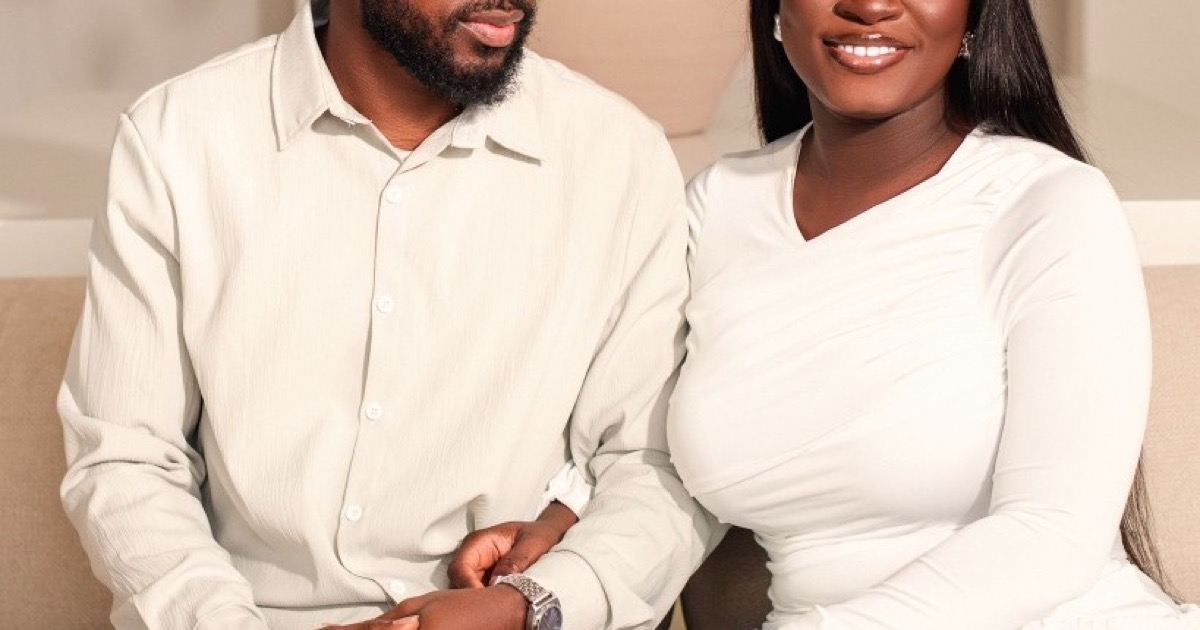
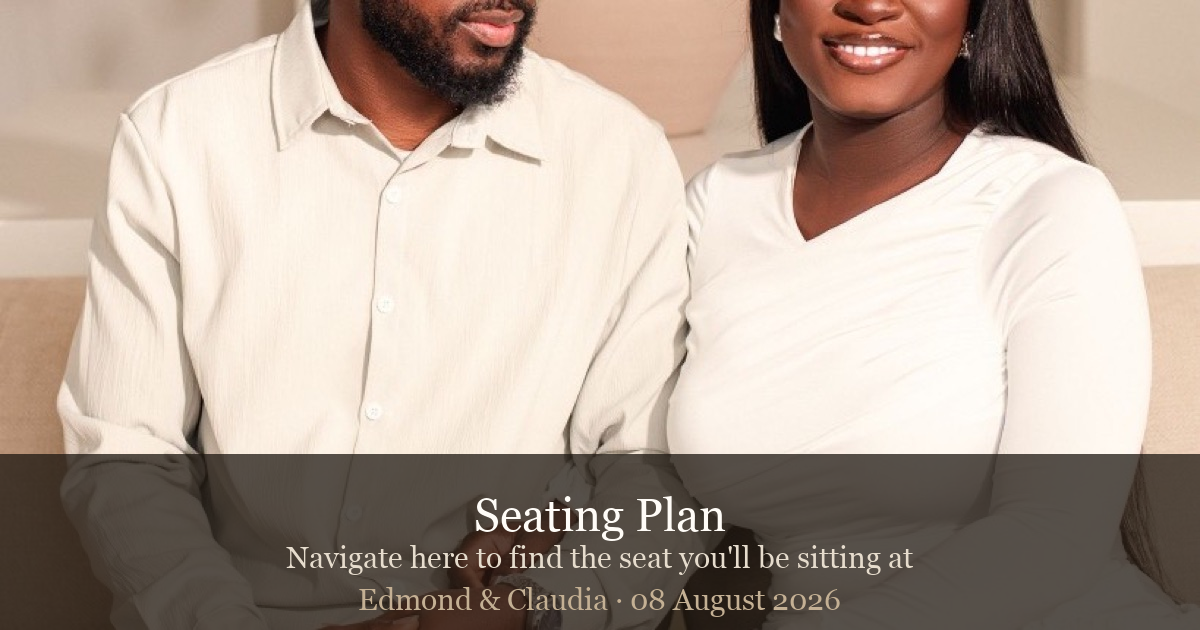
deploy

Changed region(s): [[0.0, 0.6937, 1.0, 1.0]]

diff --git a/src/App.jsx b/src/App.jsx
@@ -1150,7 +1150,9 @@ function GuestView({ guests, loading }) {
 
 function updateShareMeta(coupleName, weddingDate) {
   const { title, description } = sharePreviewText(coupleName, weddingDate);
-  const imagePath = `${window.location.origin}/images/og-share.png`;
+  const origin = window.location.origin;
+  const imagePath = `${origin}/images/og-share.png`;
+  const pageUrl = `${origin}/`;
 
   document.title = title;
 
@@ -1169,10 +1171,13 @@ function updateShareMeta(coupleName, weddingDate) {
     tag.setAttribute("content", content);
   };
 
+  setMeta('meta[name="title"]', title);
   setMeta('meta[name="description"]', description);
+  setMeta('meta[property="og:url"]', pageUrl);
   setMeta('meta[property="og:title"]', title);
   setMeta('meta[property="og:description"]', description);
   setMeta('meta[property="og:image"]', imagePath);
+  setMeta('meta[property="og:image:secure_url"]', imagePath);
   setMeta('meta[name="twitter:title"]', title);
   setMeta('meta[name="twitter:description"]', description);
   setMeta('meta[name="twitter:image"]', imagePath);

diff --git a/vite.config.js b/vite.config.js
@@ -1,15 +1,22 @@
 import { defineConfig } from "vite";
 import react from "@vitejs/plugin-react";
 import { ENV_DEFAULTS, sharePreviewCopy } from "./env.defaults.js";
+import { resolveSiteUrl } from "./scripts/resolve-site-url.mjs";
 
 function siteMetaPlugin() {
-  const siteUrl = (process.env.VITE_SITE_URL || "").replace(/\/$/, "");
+  const siteUrl = resolveSiteUrl();
   const coupleNames = process.env.VITE_COUPLE_NAMES || ENV_DEFAULTS.VITE_COUPLE_NAMES;
   const weddingDate = process.env.VITE_WEDDING_DATE || ENV_DEFAULTS.VITE_WEDDING_DATE;
   const { title, description } = sharePreviewCopy(coupleNames, weddingDate);
   const imagePath = "/images/og-share.png";
   const imageUrl = siteUrl ? `${siteUrl}${imagePath}` : imagePath;
   const canonical = siteUrl ? `<link rel="canonical" href="${siteUrl}/" />` : "";
+
+  if (!siteUrl) {
+    console.warn(
+      "Warning: VITE_SITE_URL (or RAILWAY_PUBLIC_DOMAIN) is not set — link preview image URLs will be relative."
+    );
+  }
 
   return {
     name: "site-meta",

diff --git a/index.html b/index.html
@@ -43,7 +43,7 @@
         <p style="letter-spacing: 0.3em; font-size: 11px; text-transform: uppercase; color: #8a7962;">Seating Plan</p>
         <h1 style="font-size: 2.5rem; font-weight: 400; margin: 1rem 0 0.5rem; font-style: italic;">Edmond &amp; Claudia</h1>
         <p style="letter-spacing: 0.2em; font-size: 12px; color: #6b5d4a;">08 August 2026</p>
-        <p style="margin-top: 1.5rem; color: #6b5d4a;">Please visit this website to find the seat you&apos;ll be sitting at.</p>
+        <p style="margin-top: 1.5rem; color: #6b5d4a;">Navigate here to find the seat you&apos;ll be sitting at.</p>
       </main>
     </noscript>
     <script type="module" src="/src/main.jsx"></script>

diff --git a/env.defaults.js b/env.defaults.js
@@ -12,7 +12,7 @@ export function sharePreviewCopy(
 ) {
   return {
     title: `${coupleNames} · ${SITE_LABEL}`,
-    description: `Please visit this website to find the seat you'll be sitting at — ${coupleNames}, ${weddingDate}.`,
+    description: `Navigate here to find the seat you'll be sitting at. ${coupleNames} · ${weddingDate}.`,
   };
 }
 
